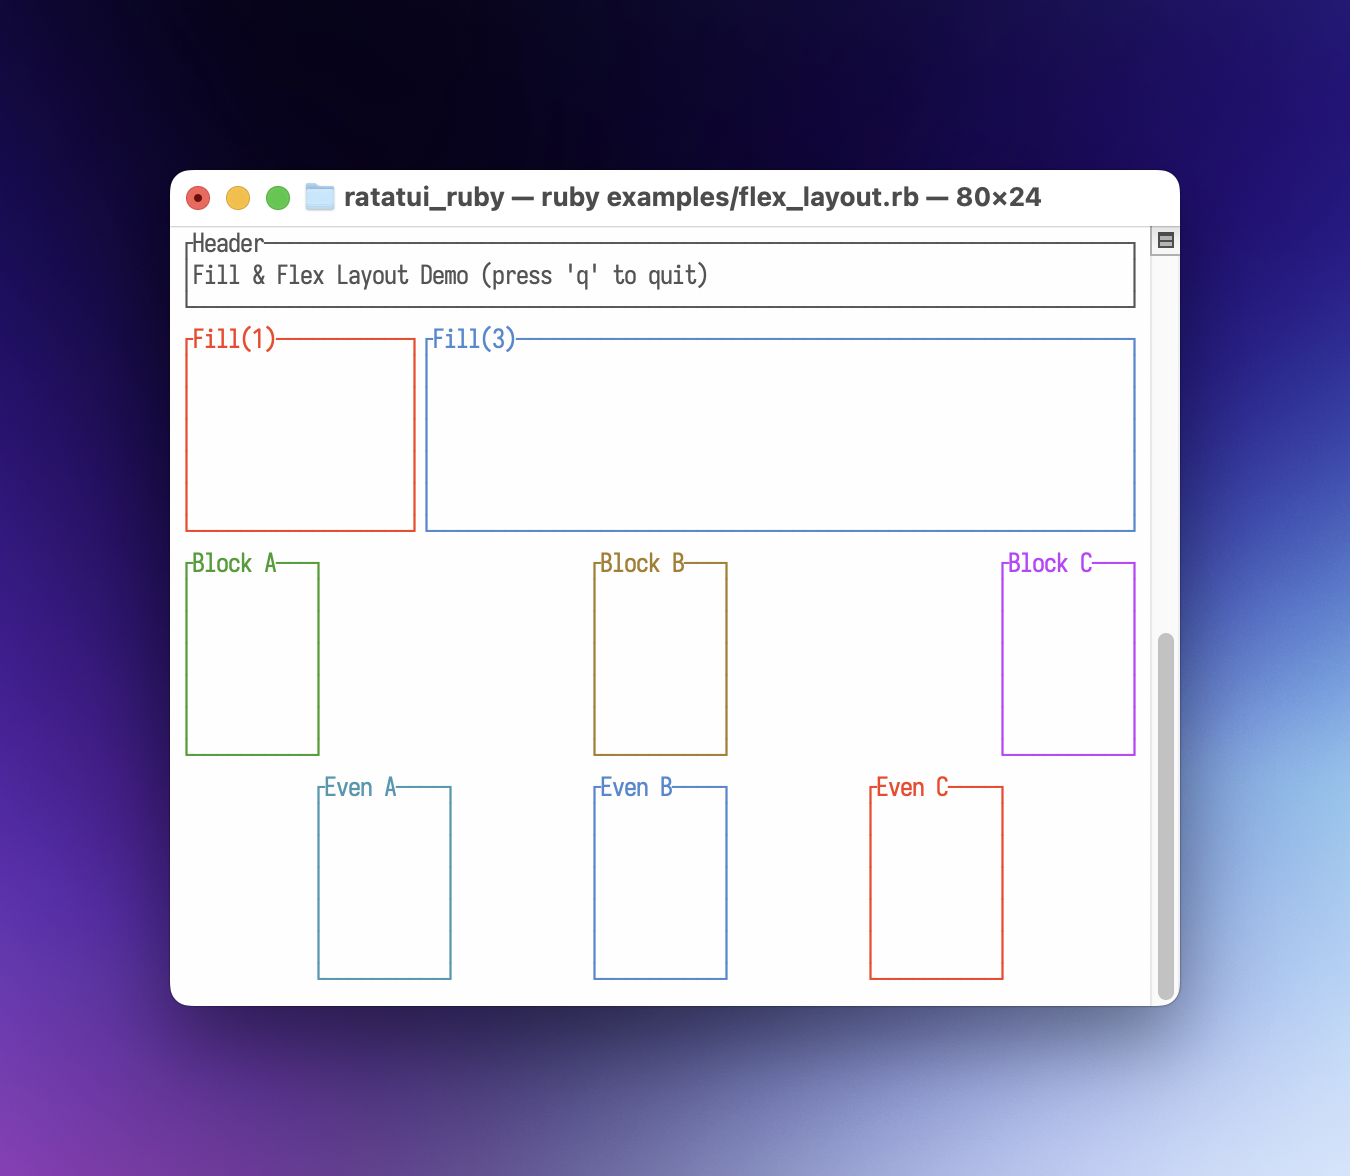
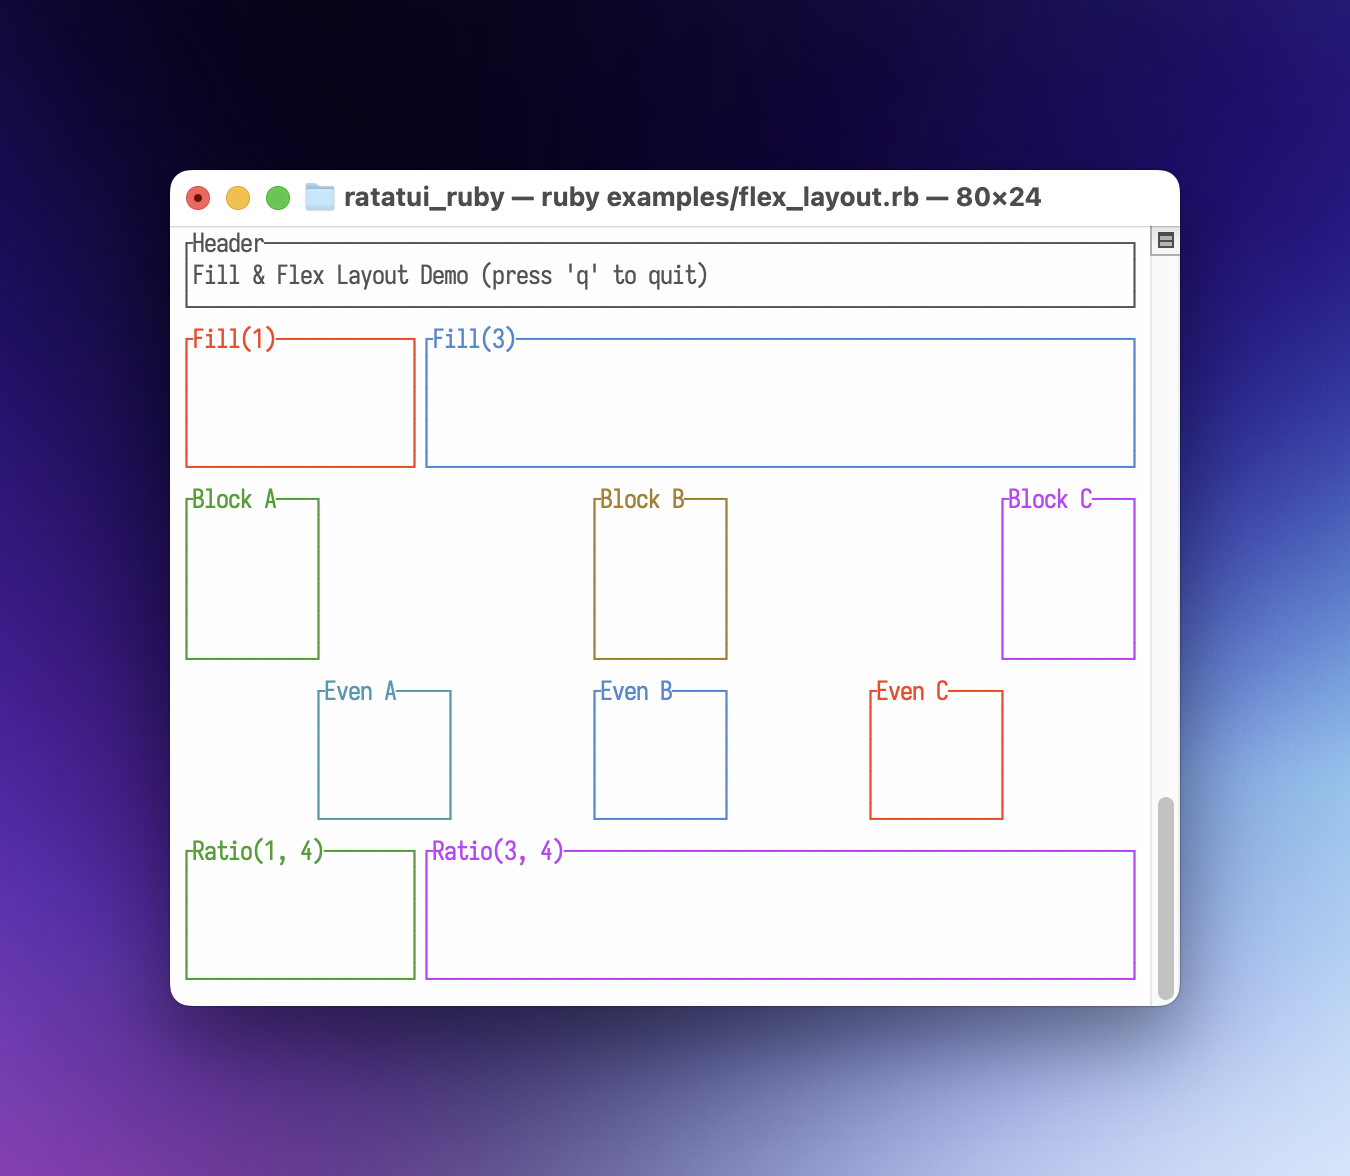
feat(layout): add Constraint::Ratio and update Table constraints
Implemented Constraint::Ratio(numerator, denominator) for flexible proportional layouts.
Updated Table widget to support :max, :fill, and :ratio constraints in column widths,
matching the capabilities of the Layout widget. Updated documentation and examples.

Generated with [Antigravity](https://antigravity.google)

diff --git a/ext/ratatui_ruby/src/widgets/layout.rs b/ext/ratatui_ruby/src/widgets/layout.rs
@@ -44,14 +44,38 @@ pub fn render(frame: &mut Frame, area: Rect, node: Value) -> Result<(), Error> {
             for i in 0..arr.len() {
                 let constraint_obj: Value = arr.entry(i as isize)?;
                 let type_sym: Symbol = constraint_obj.funcall("type", ())?;
-                let value: u16 = constraint_obj.funcall("value", ())?;
+                let value_obj: Value = constraint_obj.funcall("value", ())?;
 
                 match type_sym.to_string().as_str() {
-                    "length" => ratatui_constraints.push(Constraint::Length(value)),
-                    "percentage" => ratatui_constraints.push(Constraint::Percentage(value)),
-                    "min" => ratatui_constraints.push(Constraint::Min(value)),
-                    "max" => ratatui_constraints.push(Constraint::Max(value)),
-                    "fill" => ratatui_constraints.push(Constraint::Fill(value)),
+                    "length" => {
+                        let val = u16::try_convert(value_obj)?;
+                        ratatui_constraints.push(Constraint::Length(val));
+                    }
+                    "percentage" => {
+                        let val = u16::try_convert(value_obj)?;
+                        ratatui_constraints.push(Constraint::Percentage(val));
+                    }
+                    "min" => {
+                        let val = u16::try_convert(value_obj)?;
+                        ratatui_constraints.push(Constraint::Min(val));
+                    }
+                    "max" => {
+                        let val = u16::try_convert(value_obj)?;
+                        ratatui_constraints.push(Constraint::Max(val));
+                    }
+                    "fill" => {
+                        let val = u16::try_convert(value_obj)?;
+                        ratatui_constraints.push(Constraint::Fill(val));
+                    }
+                    "ratio" => {
+                        if let Some(arr) = magnus::RArray::from_value(value_obj) {
+                            if arr.len() == 2 {
+                                let n = u32::try_convert(arr.entry(0)?)?;
+                                let d = u32::try_convert(arr.entry(1)?)?;
+                                ratatui_constraints.push(Constraint::Ratio(n, d));
+                            }
+                        }
+                    }
                     _ => {}
                 }
             }

diff --git a/ext/ratatui_ruby/src/widgets/table.rs b/ext/ratatui_ruby/src/widgets/table.rs
@@ -55,12 +55,38 @@ pub fn render(frame: &mut Frame, area: Rect, node: Value) -> Result<(), Error> {
     for i in 0..widths_array.len() {
         let constraint_obj: Value = widths_array.entry(i as isize)?;
         let type_sym: Symbol = constraint_obj.funcall("type", ())?;
-        let value: u16 = constraint_obj.funcall("value", ())?;
+        let value_obj: Value = constraint_obj.funcall("value", ())?;
 
         match type_sym.to_string().as_str() {
-            "length" => constraints.push(Constraint::Length(value)),
-            "percentage" => constraints.push(Constraint::Percentage(value)),
-            "min" => constraints.push(Constraint::Min(value)),
+            "length" => {
+                let val = u16::try_convert(value_obj)?;
+                constraints.push(Constraint::Length(val));
+            }
+            "percentage" => {
+                let val = u16::try_convert(value_obj)?;
+                constraints.push(Constraint::Percentage(val));
+            }
+            "min" => {
+                let val = u16::try_convert(value_obj)?;
+                constraints.push(Constraint::Min(val));
+            }
+            "max" => {
+                let val = u16::try_convert(value_obj)?;
+                constraints.push(Constraint::Max(val));
+            }
+            "fill" => {
+                let val = u16::try_convert(value_obj)?;
+                constraints.push(Constraint::Fill(val));
+            }
+            "ratio" => {
+                if let Some(arr) = magnus::RArray::from_value(value_obj) {
+                    if arr.len() == 2 {
+                        let n = u32::try_convert(arr.entry(0)?)?;
+                        let d = u32::try_convert(arr.entry(1)?)?;
+                        constraints.push(Constraint::Ratio(n, d));
+                    }
+                }
+            }
             _ => {}
         }
     }

diff --git a/examples/flex_layout.rb b/examples/flex_layout.rb
@@ -26,6 +26,7 @@ class FlexLayoutApp
         RatatuiRuby::Constraint.length(3),
         RatatuiRuby::Constraint.fill(1),
         RatatuiRuby::Constraint.fill(1),
+        RatatuiRuby::Constraint.fill(1),
         RatatuiRuby::Constraint.fill(1)
       ],
       children: [
@@ -35,7 +36,8 @@ class FlexLayoutApp
         ),
         fill_demo_row,
         space_between_demo_row,
-        space_evenly_demo_row
+        space_evenly_demo_row,
+        ratio_demo_row
       ]
     )
 
@@ -117,6 +119,28 @@ class FlexLayoutApp
           title: "Even C",
           borders: [:all],
           border_color: "red"
+        )
+      ]
+    )
+  end
+
+  def ratio_demo_row
+    RatatuiRuby::Layout.new(
+      direction: :horizontal,
+      constraints: [
+        RatatuiRuby::Constraint.ratio(1, 4),
+        RatatuiRuby::Constraint.ratio(3, 4)
+      ],
+      children: [
+        RatatuiRuby::Block.new(
+          title: "Ratio(1, 4)",
+          borders: [:all],
+          border_color: "green"
+        ),
+        RatatuiRuby::Block.new(
+          title: "Ratio(3, 4)",
+          borders: [:all],
+          border_color: "magenta"
         )
       ]
     )

diff --git a/lib/ratatui_ruby/schema/constraint.rb b/lib/ratatui_ruby/schema/constraint.rb
@@ -6,8 +6,8 @@
 module RatatuiRuby
   # Defines constraints for layout sections or table columns.
   #
-  # [type] The type of constraint (:length, :percentage, :min, :max, :fill).
-  # [value] The numeric value associated with the constraint.
+  # [type] The type of constraint (:length, :percentage, :min, :max, :fill, :ratio).
+  # [value] The numeric value associated with the constraint (or array for ratio).
   class Constraint < Data.define(:type, :value)
     # Creates a length constraint (fixed number of cells).
     #
@@ -46,6 +46,14 @@ module RatatuiRuby
     # [v] The proportional weight (default: 1).
     def self.fill(v = 1)
       new(type: :fill, value: v)
+    end
+
+    # Creates a ratio constraint.
+    #
+    # [numerator] The numerator of the ratio.
+    # [denominator] The denominator of the ratio.
+    def self.ratio(numerator, denominator)
+      new(type: :ratio, value: [numerator, denominator])
     end
   end
 end

diff --git a/test/ratatui_ruby/schema/test_constraint.rb b/test/ratatui_ruby/schema/test_constraint.rb
@@ -109,4 +109,29 @@ class TestConstraint < Minitest::Test
       assert_equal "Max     Fill        ", buffer_content[0]
     end
   end
+
+  def test_ratio_constraint_render
+    with_test_terminal(20, 4) do
+      l = RatatuiRuby::Layout.new(
+        direction: :horizontal,
+        constraints: [
+          RatatuiRuby::Constraint.ratio(1, 4),
+          RatatuiRuby::Constraint.ratio(3, 4)
+        ],
+        children: [
+          RatatuiRuby::Paragraph.new(text: "A"),
+          RatatuiRuby::Paragraph.new(text: "B")
+        ]
+      )
+      RatatuiRuby.draw(l)
+      # Ratio(1/4) of 20 = 5. Ratio(3/4) of 20 = 15.
+      assert_equal "A    B              ", buffer_content[0]
+    end
+  end
+
+  def test_ratio_creation
+    c = RatatuiRuby::Constraint.ratio(1, 2)
+    assert_equal :ratio, c.type
+    assert_equal [1, 2], c.value
+  end
 end

diff --git a/CHANGELOG.md b/CHANGELOG.md
@@ -15,6 +15,8 @@ This project adheres to [Semantic Versioning](https://semver.org/spec/v2.0.0.htm
 - **Table Footer**: The `Table` widget now supports a `footer` parameter, allowing for summary rows at the bottom of the table.
 - **Block Padding**: `Block` widget now supports correct padding via the `padding` parameter, accepting either a single integer for uniform padding or an array of 4 integers for directional padding (`[left, right, top, bottom]`).
 - **Block Title Alignment**: `Block` widget now supports `title_alignment` (`:left`, `:center`, `:right`) for positioning the title on the border.
+- **Constraint Ratio**: Added `Constraint.ratio(numerator, denominator)` to support proportional constraints where the ratio is explicit (e.g., 1/4 and 3/4).
+- **Table Constraints**: `Table` widget `widths` now support all constraint types including `:max`, `:fill` and `:ratio`, matching the flexibility of the `Layout` widget.
 
 - Added `Flex::SpaceEvenly` layout mode to `Layout` widget.
 - **Block Border Types**: Added `border_type` to `Block` widget, allowing `:plain`, `:rounded`, `:double`, `:thick`, `:quadrant_inside`, and `:quadrant_outside` border styles.

diff --git a/doc/contributors/gap_analysis_0.30.md b/doc/contributors/gap_analysis_0.30.md
@@ -30,7 +30,7 @@ Comparison of ratatui 0.30 features vs ratatui_ruby current implementation.
 | `Constraint::Min` | `:min` | ✅ |
 | `Constraint::Max` | `:max` | ✅ |
 | `Constraint::Fill` | `:fill` | ✅ |
-| `Constraint::Ratio(n, d)` | — | ❌ **MISSING** (two-value constraint) |
+| `Constraint::Ratio(n, d)` | `:ratio` | ✅ |
 
 ---
 
@@ -89,7 +89,7 @@ Comparison of ratatui 0.30 features vs ratatui_ruby current implementation.
 | `column_spacing()` | — | ❌ **MISSING** |
 | `flex()` | — | ❌ **MISSING** |
 
-Note: Table widths only support `:length`, `:percentage`, `:min` in Rust renderer (missing `:max`, `:fill`).
+Note: Table widths support all constraints (`:length`, `:percentage`, `:min`, `:max`, `:fill`, `:ratio`).
 
 ---
 

diff --git a/doc/quickstart.md b/doc/quickstart.md
@@ -158,7 +158,7 @@ Uses `Layout`, `List`, and `Paragraph` to create a classic sidebar-and-content i
 ![Dashboard Screenshot](./images/examples-dashboard.rb.png)
 
 ### [Flex Layout](https://git.sr.ht/~kerrick/ratatui_ruby/tree/main/item/examples/flex_layout.rb)
-Demonstrates modern layout features including `Constraint.fill` for proportional space distribution and `flex: :space_between` for evenly distributing fixed-size elements.
+Demonstrates modern layout features including `Constraint.fill` and `Constraint.ratio` for proportional space distribution and `flex: :space_between` for evenly distributing fixed-size elements.
 
 ![Flex Layout Screenshot](./images/examples-flex_layout.rb.png)
 
